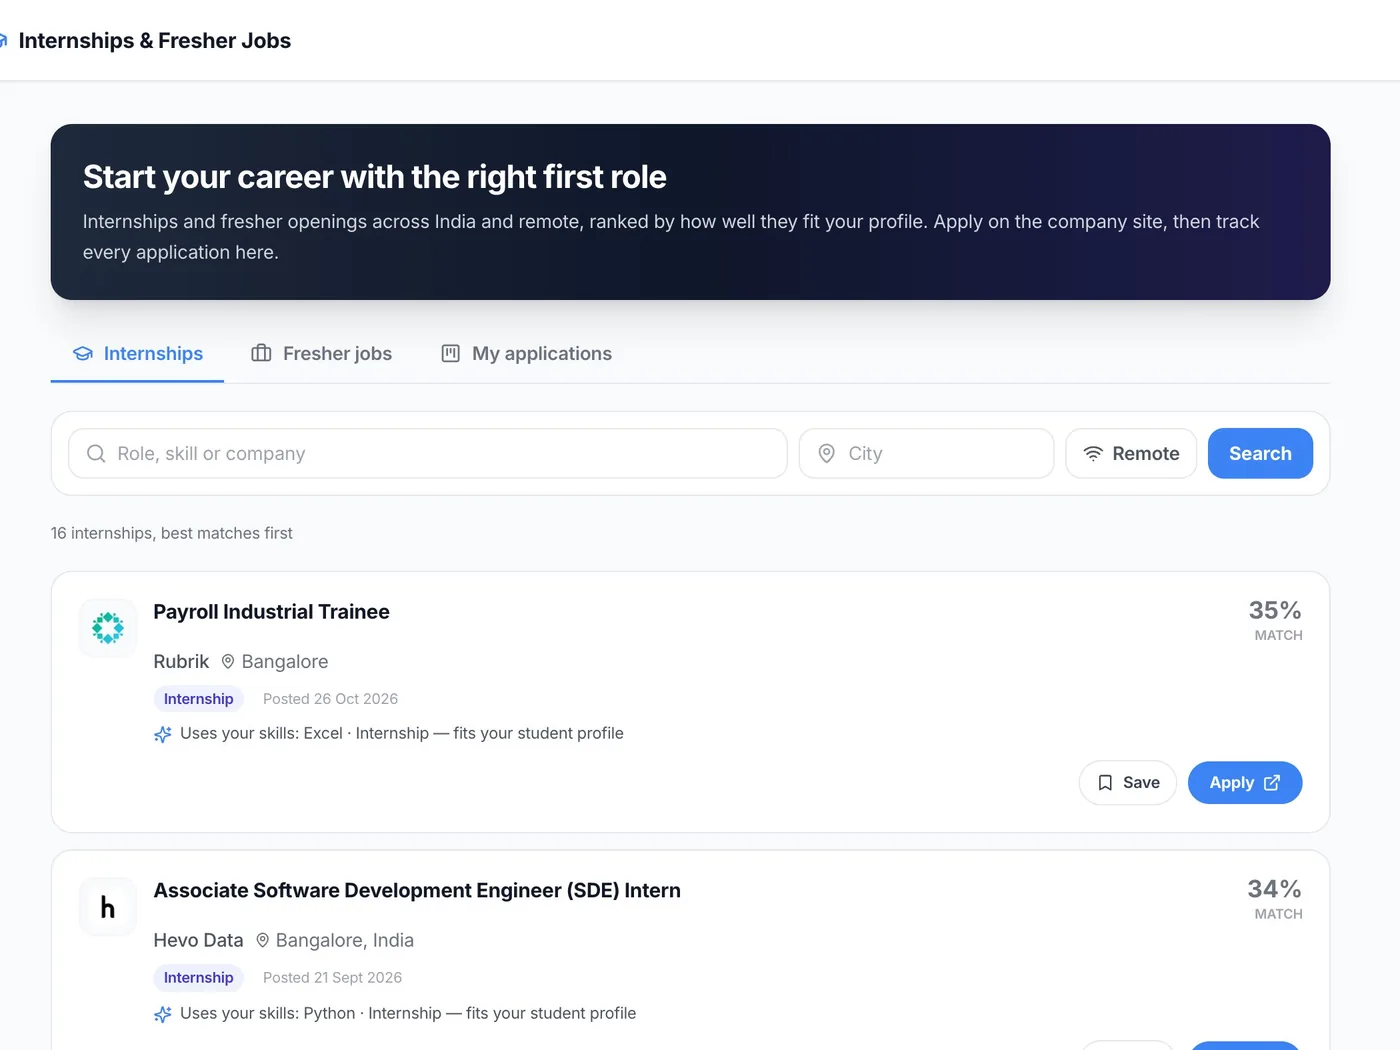
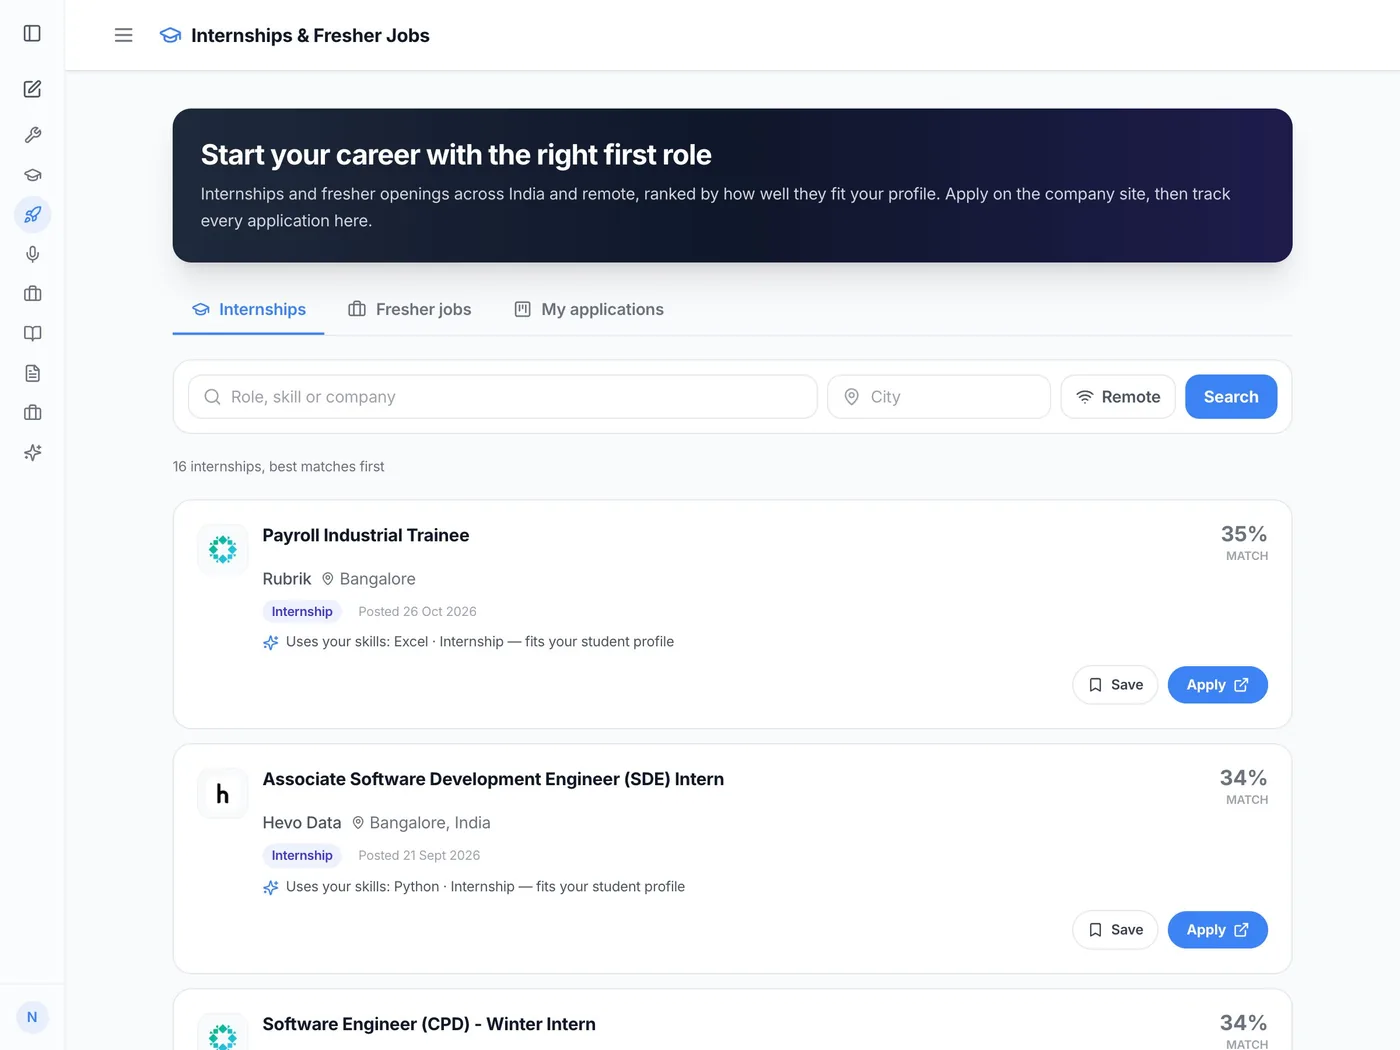
Landing: full uncropped screenshots, more colour
- Recapture all app screenshots at a 4:3 viewport with no cropping. The
  earlier crops cut page titles on the left and left a black band under the
  Job Agent image.
- Screenshots sit on soft colour fields (one tone per feature/persona),
  with a brand-blue accent on section labels, persona tabs, the hero CTA and
  the hero/closing headlines; the popular plan card is navy.
- Shared Shot component (src/components/landing/Shot.tsx) used by the page
  and the persona tabs.

diff --git a/src/views/Landing.tsx b/src/views/Landing.tsx
@@ -5,6 +5,7 @@ import LandingAuthRedirect from "@/components/landing/LandingAuthRedirect";
 import PersonaTabs from "@/components/landing/PersonaTabs";
 import { displaySerif } from "@/components/landing/fonts";
 import { FAQS, PLANS } from "@/components/landing/content";
+import { Shot, type Tone } from "@/components/landing/Shot";
 
 // Design: editorial and quiet. Near-monochrome ink on white/ivory, a serif for
 // headlines, real product screenshots, thin rules instead of boxes and icons.
@@ -12,6 +13,8 @@ import { FAQS, PLANS } from "@/components/landing/content";
 // if something leaves the Sidebar, remove it here too.
 
 const serif = displaySerif.className;
+
+
 
 const PERSONAS = ["School students", "College students", "Job seekers", "Working professionals", "Career switchers", "Govt exam aspirants"];
 
@@ -22,6 +25,7 @@ const SHOWCASE = [
     body: "Practise HR, technical and behavioral rounds in text, or join a live voice interview where Aarika asks, listens and follows up. Every answer is scored, with a stronger sample answer to learn from. Your camera preview never leaves your device.",
     link: { href: "/register", label: "Practise an interview" },
     shot: "/landing/mock-interview.webp",
+    tone: "violet" as Tone,
     alt: "Aarika.AI Mock Interview: start a live voice interview or practise HR, technical and behavioral rounds with instant AI feedback",
     w: 1400,
     h: 1050,
@@ -32,6 +36,7 @@ const SHOWCASE = [
     body: "The Job Agent scans company career pages for roles that fit your target role and skills, and tells you why each one matches. Smart Apply then prepares a tailored resume, ATS score, cover letter and form answers, so applying takes minutes.",
     link: { href: "/register", label: "Meet your job agent" },
     shot: "/landing/job-agent.webp",
+    tone: "green" as Tone,
     alt: "Aarika.AI Job Agent with matching jobs, match scores and Smart Apply",
     w: 1400,
     h: 1050,
@@ -42,11 +47,14 @@ const SHOWCASE = [
     body: "Timed papers with negative marking, instant scores and an explanation for every question. JEE, NEET, UPSC, SSC CGL, IBPS PO, CAT and CA Foundation follow their official patterns, and you can practise in English, Hindi or Hinglish.",
     link: { href: "/register", label: "Take a mock exam" },
     shot: "/landing/exam-simulator.webp",
+    tone: "amber" as Tone,
     alt: "Aarika.AI Exam Simulator setup: choose exam, difficulty, language and paper type",
     w: 1400,
     h: 1050,
   },
 ];
+
+const DOTS = ["bg-[#3b6cf6]", "bg-[#e0607e]", "bg-[#e8913a]", "bg-[#2fa77a]", "bg-[#8b5cf6]", "bg-[#0ea5e9]", "bg-[#3b6cf6]", "bg-[#2fa77a]"];
 
 const MORE = [
   { name: "AI career chat", desc: "Career answers that use your profile, in English, Hindi or Hinglish." },
@@ -94,26 +102,13 @@ const FOOTER_COLUMNS = [
   },
 ];
 
-function Shot({ src, alt, w, h, priority = false }: { src: string; alt: string; w: number; h: number; priority?: boolean }) {
-  return (
-    <div className="rounded-[20px] bg-[#f0eee6] p-2 sm:p-3">
-      {/* eslint-disable-next-line @next/next/no-img-element */}
-      <img
-        src={src}
-        alt={alt}
-        width={w}
-        height={h}
-        loading={priority ? "eager" : "lazy"}
-        fetchPriority={priority ? "high" : undefined}
-        decoding="async"
-        className="block h-auto w-full rounded-[14px] border border-black/[0.06] bg-white"
-      />
-    </div>
-  );
-}
-
 function SectionLabel({ children }: { children: React.ReactNode }) {
-  return <p className="text-[13px] font-medium text-[#77756e]">{children}</p>;
+  return (
+    <p className="inline-flex items-center gap-2 text-[13px] font-medium text-[#3b6cf6]">
+      <span className="h-1.5 w-1.5 rounded-full bg-[#3b6cf6]" aria-hidden />
+      {children}
+    </p>
+  );
 }
 
 export default function Landing() {
@@ -153,7 +148,7 @@ export default function Landing() {
             <SectionLabel>Aarika.AI · the AI career co-pilot for India</SectionLabel>
             <h1 id="hero-title" className={`${serif} mt-5 text-[44px] leading-[1.02] tracking-[-0.02em] sm:text-[72px] lg:text-[88px]`}>
               From your first exam
-              <br className="hidden sm:block" /> to your <em className="italic">next job.</em>
+              <br className="hidden sm:block" /> to your <em className="bg-gradient-to-r from-[#2f5fe8] to-[#7c4dff] bg-clip-text pr-2 italic text-transparent">next job.</em>
             </h1>
             <p className="mx-auto mt-7 max-w-2xl text-[17px] leading-relaxed text-[#5f5e5a] sm:text-[19px]">
               Plan your career, practise interviews with an AI interviewer, build your resume and find jobs that actually fit,
@@ -162,14 +157,14 @@ export default function Landing() {
             <div className="mt-10 flex flex-col items-center justify-center gap-3 sm:flex-row">
               <Link
                 href="/register"
-                className="group inline-flex w-full items-center justify-center gap-2 rounded-full bg-[#141413] px-7 py-3.5 text-[15px] font-medium text-white transition-colors hover:bg-black/80 sm:w-auto"
+                className="group inline-flex w-full items-center justify-center gap-2 rounded-full bg-[#2f5fe8] px-7 py-3.5 text-[15px] font-medium text-white shadow-[0_10px_30px_-10px_rgba(47,95,232,0.7)] transition-colors hover:bg-[#2550d0] sm:w-auto"
               >
                 Get started, it&apos;s free
                 <ArrowRight size={16} className="transition-transform group-hover:translate-x-0.5" aria-hidden />
               </Link>
               <Link
                 href="/login"
-                className="inline-flex w-full items-center justify-center rounded-full px-7 py-3.5 text-[15px] font-medium text-[#141413] ring-1 ring-inset ring-black/15 transition-colors hover:bg-black/[0.03] sm:w-auto"
+                className="inline-flex w-full items-center justify-center rounded-full bg-white px-7 py-3.5 text-[15px] font-medium text-[#141413] ring-1 ring-inset ring-black/15 transition-colors hover:bg-black/[0.03] sm:w-auto"
               >
                 Log in
               </Link>
@@ -177,8 +172,10 @@ export default function Landing() {
             <p className="mt-5 text-[13px] text-[#77756e]">Sign up with email, Google or LinkedIn. No card needed.</p>
           </div>
 
-          <figure className="mt-16 sm:mt-20">
+          <figure className="relative mt-16 sm:mt-20">
+            <div className="absolute inset-x-0 -top-10 bottom-10 -z-10 rounded-[48px] bg-[radial-gradient(60%_60%_at_30%_30%,rgba(59,108,246,0.18),transparent),radial-gradient(50%_50%_at_75%_40%,rgba(139,92,246,0.16),transparent)] blur-2xl" aria-hidden />
             <Shot
+              tone="blue"
               src="/landing/hero-job-agent.webp"
               alt="The Aarika.AI app: the Job Agent dashboard with matching jobs, match scores and Smart Apply"
               w={1600}
@@ -225,7 +222,7 @@ export default function Landing() {
                     </Link>
                   </div>
                   <div className={`min-w-0 lg:col-span-7 ${i % 2 === 1 ? "lg:order-1" : ""}`}>
-                    <Shot src={s.shot} alt={s.alt} w={s.w} h={s.h} />
+                    <Shot src={s.shot} alt={s.alt} w={s.w} h={s.h} tone={s.tone} />
                   </div>
                 </article>
               ))}
@@ -235,9 +232,12 @@ export default function Landing() {
             <div className="mt-28 sm:mt-36">
               <h3 className={`${serif} text-[32px] leading-tight sm:text-[40px]`}>And the rest of your toolkit</h3>
               <ul className="mt-10 grid border-t border-black/[0.08] sm:grid-cols-2 lg:grid-cols-4">
-                {MORE.map((m) => (
+                {MORE.map((m, i) => (
                   <li key={m.name} className="border-b border-black/[0.08] py-6 sm:pr-8">
-                    <p className="text-[15px] font-medium">{m.name}</p>
+                    <p className="flex items-center gap-2.5 text-[15px] font-medium">
+                      <span className={`h-2 w-2 rounded-full ${DOTS[i % DOTS.length]}`} aria-hidden />
+                      {m.name}
+                    </p>
                     <p className="mt-1.5 text-[14px] leading-relaxed text-[#5f5e5a]">{m.desc}</p>
                   </li>
                 ))}
@@ -272,8 +272,8 @@ export default function Landing() {
           </h2>
           <div className="mt-14 grid gap-10 md:grid-cols-3 md:gap-12">
             {PRINCIPLES.map((p, i) => (
-              <div key={p.title} className="border-t border-[#141413] pt-6">
-                <p className="text-[13px] text-[#77756e]">0{i + 1}</p>
+              <div key={p.title} className="border-t-2 border-[#141413] pt-6">
+                <p className={`${serif} text-[40px] leading-none text-[#3b6cf6]`}>0{i + 1}</p>
                 <h3 className="mt-3 text-[18px] font-medium">{p.title}</h3>
                 <p className="mt-2 text-[15px] leading-relaxed text-[#5f5e5a]">{p.body}</p>
               </div>
@@ -298,7 +298,7 @@ export default function Landing() {
                 return (
                   <article
                     key={plan.name}
-                    className={`flex flex-col rounded-[20px] p-7 sm:p-8 ${popular ? "bg-[#141413] text-white" : "bg-[#f6f5f0] text-[#141413]"}`}
+                    className={`flex flex-col rounded-[20px] p-7 sm:p-8 ${popular ? "bg-gradient-to-br from-[#14213f] via-[#1b2f6b] to-[#3a2f8f] text-white shadow-[0_30px_60px_-25px_rgba(30,50,140,0.6)]" : "bg-[#f6f5f0] text-[#141413]"}`}
                   >
                     <div className="flex items-center justify-between">
                       <h3 className="text-[17px] font-medium">{plan.name}</h3>
@@ -364,10 +364,10 @@ export default function Landing() {
         </section>
 
         {/* Closing CTA */}
-        <section aria-labelledby="cta-title" className="bg-[#f6f5f0]">
+        <section aria-labelledby="cta-title" className="bg-gradient-to-br from-[#dfe8ff] via-[#efe9ff] to-[#fde9e4]">
           <div className="mx-auto max-w-[1200px] px-5 py-24 text-center sm:px-8 sm:py-32">
             <h2 id="cta-title" className={`${serif} mx-auto max-w-3xl text-[44px] leading-[1.02] tracking-[-0.02em] sm:text-[72px]`}>
-              Your next step starts <em className="italic">here.</em>
+              Your next step starts <em className="bg-gradient-to-r from-[#2f5fe8] to-[#7c4dff] bg-clip-text pr-2 italic text-transparent">here.</em>
             </h2>
             <p className="mx-auto mt-6 max-w-md text-[17px] text-[#5f5e5a]">Create your free account and let Aarika build your plan today.</p>
             <div className="mt-10 flex flex-col items-center justify-center gap-3 sm:flex-row">

diff --git a/src/components/landing/PersonaTabs.tsx b/src/components/landing/PersonaTabs.tsx
@@ -4,6 +4,7 @@ import { useState } from "react";
 import Link from "next/link";
 import { ArrowUpRight } from "lucide-react";
 import { displaySerif } from "@/components/landing/fonts";
+import { Shot, type Tone } from "@/components/landing/Shot";
 
 // What each persona actually gets. Mirrors the persona route rules in
 // src/components/auth/ProtectedRoute.tsx and the backend personaGuard
@@ -12,6 +13,8 @@ import { displaySerif } from "@/components/landing/fonts";
 const PERSONAS = [
   {
     id: "college",
+    tone: "blue" as Tone,
+    dot: "#3b6cf6",
     who: "college student",
     label: "College students",
     title: "Land your first internship and placement",
@@ -28,6 +31,8 @@ const PERSONAS = [
   },
   {
     id: "jobseeker",
+    tone: "green" as Tone,
+    dot: "#2fa77a",
     who: "job seeker",
     label: "Job seekers",
     title: "Let your job agent do the searching",
@@ -44,6 +49,8 @@ const PERSONAS = [
   },
   {
     id: "professional",
+    tone: "sky" as Tone,
+    dot: "#0ea5e9",
     who: "professional",
     label: "Professionals & switchers",
     title: "Move up, or move across, with a plan",
@@ -60,6 +67,8 @@ const PERSONAS = [
   },
   {
     id: "school",
+    tone: "violet" as Tone,
+    dot: "#8b5cf6",
     who: "school student",
     label: "School students",
     title: "Choose your stream with confidence",
@@ -76,6 +85,8 @@ const PERSONAS = [
   },
   {
     id: "govt",
+    tone: "amber" as Tone,
+    dot: "#e8913a",
     who: "govt exam aspirant",
     label: "Govt exam aspirants",
     title: "Prepare like it's exam day",
@@ -110,10 +121,11 @@ export default function PersonaTabs() {
             aria-selected={active === p.id}
             aria-controls={`panel-${p.id}`}
             onClick={() => setActive(p.id)}
-            className={`-mb-px shrink-0 border-b-2 pb-4 text-[15px] transition-colors ${
-              active === p.id ? "border-[#141413] text-[#141413]" : "border-transparent text-[#77756e] hover:text-[#141413]"
+            className={`-mb-px flex shrink-0 items-center gap-2 border-b-2 pb-4 text-[15px] transition-colors ${
+              active === p.id ? "border-[#2f5fe8] font-medium text-[#141413]" : "border-transparent text-[#77756e] hover:text-[#141413]"
             }`}
           >
+            <span className="h-2 w-2 rounded-full" style={{ background: p.dot }} aria-hidden />
             {p.label}
           </button>
         ))}
@@ -145,18 +157,7 @@ export default function PersonaTabs() {
             </Link>
           </div>
           <figure className="min-w-0 lg:col-span-7">
-            <div className="rounded-[20px] bg-white/70 p-2 sm:p-3">
-              {/* eslint-disable-next-line @next/next/no-img-element */}
-              <img
-                src={p.shot}
-                alt={p.alt}
-                width={1400}
-                height={p.shot.includes("mission-hunt") ? 875 : 1050}
-                loading="eager"
-                decoding="async"
-                className="block h-auto w-full rounded-[14px] border border-black/[0.06] bg-white"
-              />
-            </div>
+            <Shot src={p.shot} alt={p.alt} w={1400} h={1050} tone={p.tone} eager />
             <figcaption className="mt-4 text-center text-[13px] text-[#77756e]">{p.caption}</figcaption>
           </figure>
         </div>

diff --git a/src/components/landing/Shot.tsx b/src/components/landing/Shot.tsx
@@ -1,0 +1,29 @@
+// Soft colour fields behind screenshots: the page stays calm, the product pops.
+export const TONES = {
+  blue: "bg-gradient-to-br from-[#d6e4ff] via-[#e8eeff] to-[#f3eeff]",
+  violet: "bg-gradient-to-br from-[#e6dcff] via-[#efe8ff] to-[#fbe9f3]",
+  green: "bg-gradient-to-br from-[#d3efe0] via-[#e5f4ea] to-[#f1f8e6]",
+  amber: "bg-gradient-to-br from-[#fde3c4] via-[#fdeedd] to-[#fbf3ea]",
+  rose: "bg-gradient-to-br from-[#fdd9de] via-[#fde8ea] to-[#f7ecf8]",
+  sky: "bg-gradient-to-br from-[#cfe9fb] via-[#e2f1fd] to-[#eef0ff]",
+} as const;
+export type Tone = keyof typeof TONES;
+
+/** A real app screenshot on a soft colour field. Works in server and client components. */
+export function Shot({ src, alt, w, h, tone = "blue", priority = false, eager = false }: { src: string; alt: string; w: number; h: number; tone?: Tone; priority?: boolean; eager?: boolean }) {
+  return (
+    <div className={`rounded-[24px] p-3 sm:p-6 lg:p-8 ${TONES[tone]}`}>
+      {/* eslint-disable-next-line @next/next/no-img-element */}
+      <img
+        src={src}
+        alt={alt}
+        width={w}
+        height={h}
+        loading={priority || eager ? "eager" : "lazy"}
+        fetchPriority={priority ? "high" : undefined}
+        decoding="async"
+        className="block h-auto w-full rounded-[12px] bg-white shadow-[0_24px_60px_-20px_rgba(20,20,40,0.35)] ring-1 ring-black/[0.06]"
+      />
+    </div>
+  );
+}
